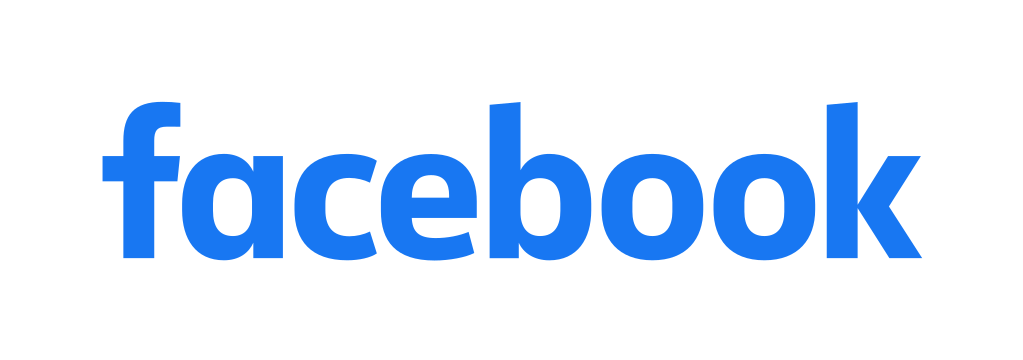
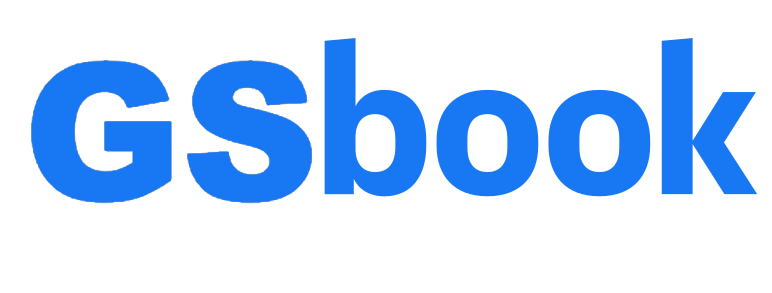
refactor:GSC error resolution

Changed region(s): [[0.0311, 0.1229, 0.9948, 0.7372]]

diff --git a/components/Body.js b/components/Body.js
@@ -9,7 +9,7 @@ const Body = () => {
           <div className="w-[36rem]">
             <img src={picture} className="h-[106px] -ml-6 -mb-3" alt="" />
             <p className="text-3xl">
-              Facebook helps you connect and share with the people in your life.
+              GSbook helps you connect and share with the people in your life.
             </p>
           </div>
           <div className="flex flex-col">
@@ -21,7 +21,8 @@ const Body = () => {
                     className="w-full p-4 rounded-md border-[1px] focus:outline-none focus:border-sky-400 focus:shadow-[0px_0px_3px_0px] focus:shadow-sky-400 border-slate-300 placeholder:text-[#a59f9f] font-medium text-sm pl-3"
                     name="email"
                     id=""
-                    placeholder="Email address or phone number"
+                    placeholder="Email address or phone numcls
+                    ber"
                   />
                   <input
                     type="password"

diff --git a/components/Header.js b/components/Header.js
@@ -12,7 +12,7 @@ const Header = () => {
           </div>
           <div className="">
             <p className="text-[#3b5998] text-sm font-normal">
-              Get Facebook for Android and browse faster.
+              Get GSbook for Android and browse faster.
             </p>
           </div>
         </div>
